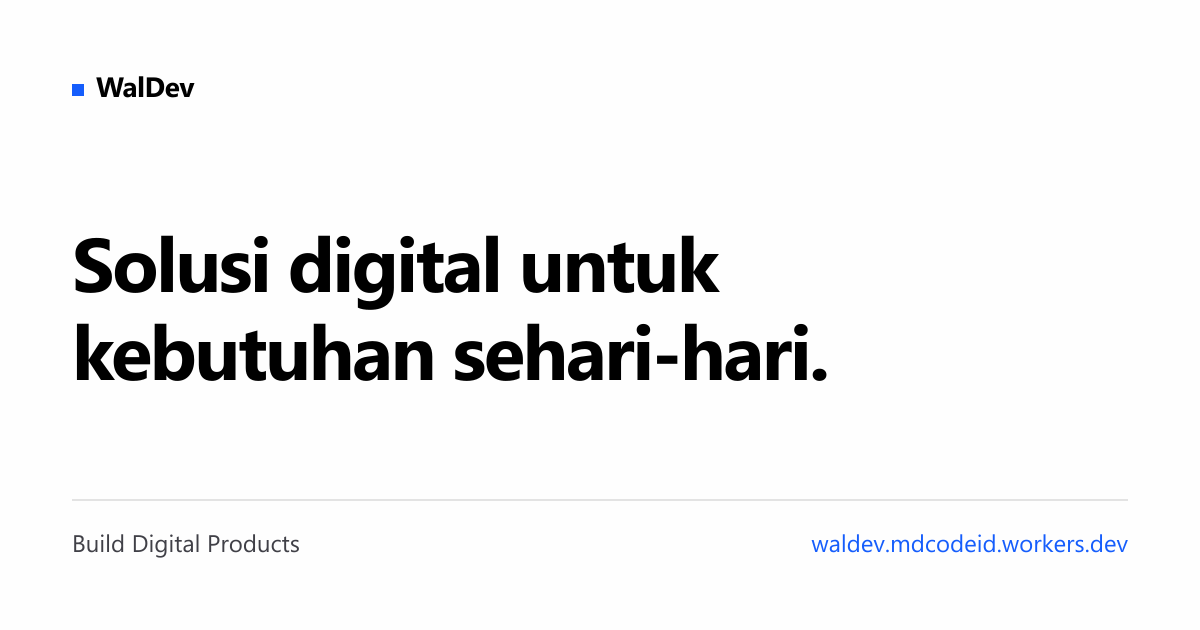
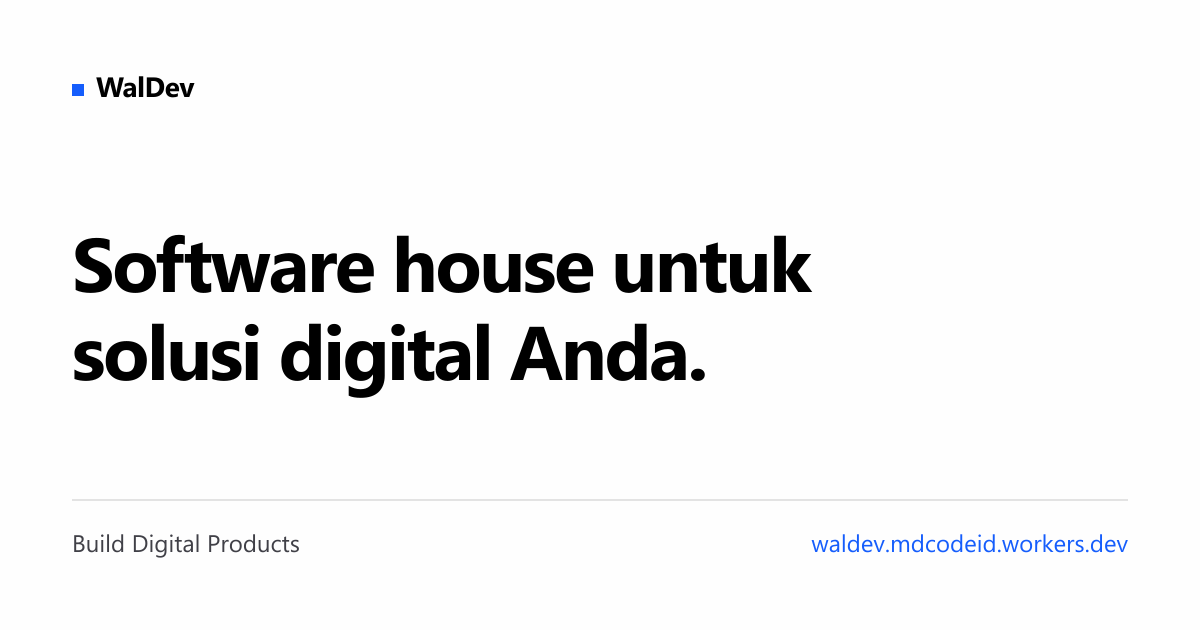
feat(copy): teks publik bernada software house mengikuti acuan Vodjo dan GoSocial
- Hero Software house untuk solusi digital Anda, dengan tombol Lihat portofolio
  dan Hubungi WalDev; sudut pandang kami dan Anda, tanpa saya.
- Menu dan bagian beranda bernama Portofolio (menu ke /apps), item disebut proyek,
  tombol Buka aplikasi menjadi Kunjungi situs; alamat /apps dan panel tetap.
- Beranda ditutup ajakan kontak lewat email; tanpa formulir, WhatsApp, angka,
  atau testimoni dari situs acuan.
- Tentang, Tulisan, 404, OG image, dan petunjuk panel mengikuti teks baru.

Changed region(s): [[0.0617, 0.3619, 0.7092, 0.6333]]

diff --git a/src/app/(public)/page.tsx b/src/app/(public)/page.tsx
@@ -2,6 +2,7 @@ import type { Metadata } from "next";
 import { ClientLogos } from "@/components/home/client-logos";
 import { Hero, type HeroShowcase } from "@/components/home/hero";
 import { ArrowLink } from "@/components/ui/arrow-link";
+import { buttonVariants } from "@/components/ui/button";
 import { SectionHeading } from "@/components/ui/section-heading";
 import { SECTION, SHELL } from "@/components/ui/shell";
 import { HOME_INTRO, HOME_LEAD } from "@/lib/constants";
@@ -30,7 +31,7 @@ function gridCols(count: number): string {
 }
 
 /**
- * Beranda (docs/09 §5.1): hero, logo klien, kartu aplikasi, lalu tulisan terbaru.
+ * Beranda (docs/09 §5.1): hero, logo klien, kartu proyek, lalu tulisan terbaru.
  * Logo klien dan tulisan hilang selama isinya kosong, jadi beranda tetap utuh walau
  * baru ada satu aplikasi.
  */
@@ -56,7 +57,7 @@ export default async function HomePage() {
         alt: heroApp
           ? `${customImage ? "Gambar" : "Tangkapan layar"} ${heroApp.name}`
           : "Gambar hero",
-        label: heroApp ? (chosenApp ? "Aplikasi unggulan" : "Aplikasi terbaru") : null,
+        label: heroApp ? (chosenApp ? "Proyek unggulan" : "Proyek terbaru") : null,
         name: heroApp?.name ?? null,
         href: heroApp ? `/apps/${heroApp.slug}` : null,
         building: heroApp?.status === "building",
@@ -83,11 +84,8 @@ export default async function HomePage() {
         </section>
       ) : null}
 
-      <section id="aplikasi" className={cn(SHELL, SECTION, "border-border scroll-mt-14 border-t")}>
-        <SectionHeading
-          title="Aplikasi"
-          description="Buka kartu aplikasi untuk melihat penjelasan, fitur, dan catatan pembuatannya."
-        />
+      <section id="portofolio" className={cn(SHELL, SECTION, "border-border scroll-mt-14 border-t")}>
+        <SectionHeading title="Portofolio" />
 
         {featured ? (
           <>
@@ -109,12 +107,12 @@ export default async function HomePage() {
             ) : null}
             {apps.length > HOME_APP_LIMIT ? (
               <p className="mt-8">
-                <ArrowLink href="/apps">Lihat semua {apps.length} aplikasi</ArrowLink>
+                <ArrowLink href="/apps">Lihat semua {apps.length} proyek</ArrowLink>
               </p>
             ) : null}
           </>
         ) : (
-          <p className="text-muted-foreground mt-10">Aplikasi pertama masih dalam pembuatan.</p>
+          <p className="text-muted-foreground mt-10">Proyek pertama masih dalam pengerjaan.</p>
         )}
       </section>
 
@@ -125,6 +123,26 @@ export default async function HomePage() {
             {articles.map((article) => (
               <ArticleCard key={article.slug} article={article} headingLevel="h3" />
             ))}
+          </div>
+        </section>
+      ) : null}
+
+      {/* Penutup seperti situs software house acuan (docs/09 §5.1), tanpa formulir dan WhatsApp.
+          Hanya tampil bila email kontak diisi, supaya tombolnya tidak mati. */}
+      {settings.contact_email ? (
+        <section id="kontak" className={cn(SHELL, SECTION, "border-border scroll-mt-14 border-t")}>
+          <SectionHeading
+            title="Punya proyek yang ingin dibicarakan?"
+            description="Ceritakan kebutuhan aplikasi web atau sistem informasi Anda lewat email ke kami."
+          />
+          <div className="mt-8 flex flex-wrap items-center gap-x-6 gap-y-3">
+            <a
+              href={`mailto:${settings.contact_email}`}
+              className={cn(buttonVariants({ size: "lg" }), "w-full sm:w-auto")}
+            >
+              Hubungi kami
+            </a>
+            <span className="text-muted-foreground text-sm break-all">{settings.contact_email}</span>
           </div>
         </section>
       ) : null}

diff --git a/src/app/(public)/apps/[slug]/page.tsx b/src/app/(public)/apps/[slug]/page.tsx
@@ -46,7 +46,7 @@ export async function generateMetadata({
 }): Promise<Metadata> {
   const { slug } = await params;
   const app = await getApp(slug);
-  if (!app) return { title: "Aplikasi tidak ditemukan" };
+  if (!app) return { title: "Proyek tidak ditemukan" };
   const seo = await getSeoMeta("app", app.id);
   const title = seo.metaTitle || app.name;
   const description = seo.metaDescription || app.tagline || undefined;
@@ -114,8 +114,8 @@ export default async function AppPage({ params }: { params: Promise<{ slug: stri
     <>
       <header className="border-border border-b">
         <div className={cn(SHELL, "pt-8 pb-14")}>
-          <ArrowLink href="/" className="text-muted-foreground hover:text-link" back>
-            Semua aplikasi
+          <ArrowLink href="/apps" className="text-muted-foreground hover:text-link" back>
+            Semua proyek
           </ArrowLink>
 
           <div className="mt-10 flex items-center gap-5">
@@ -143,7 +143,7 @@ export default async function AppPage({ params }: { params: Promise<{ slug: stri
 
           {retired ? (
             <p className="border-border bg-surface text-muted-foreground mt-8 max-w-2xl rounded-lg border px-4 py-3 leading-relaxed">
-              Aplikasi ini sudah tidak aktif
+              Proyek ini sudah tidak aktif
               {app.retiredAt ? ` sejak ${formatMonthYear(app.retiredAt)}` : ""}. Halaman ini tetap
               ada sebagai dokumentasi.
             </p>
@@ -158,7 +158,7 @@ export default async function AppPage({ params }: { params: Promise<{ slug: stri
                   rel="noopener noreferrer"
                   className={cn(buttonVariants({ size: "lg" }), "gap-2")}
                 >
-                  Buka aplikasi
+                  Kunjungi situs
                   <ExternalLink className="h-3.5 w-3.5" aria-hidden />
                 </a>
               ) : null}

diff --git a/src/app/(public)/about/page.tsx b/src/app/(public)/about/page.tsx
@@ -53,14 +53,14 @@ export default async function AboutPage() {
     bio.length > 0
       ? bio
       : [
-          `${brand} membangun dan merawat aplikasi web. Semua aplikasinya tercatat di sini, termasuk yang masih dikerjakan dan yang sudah tidak aktif.`,
+          `${brand} adalah software house yang membangun aplikasi web dan sistem informasi. Semua proyek kami tercatat di portofolio, termasuk yang masih dikerjakan dan yang sudah tidak aktif.`,
         ];
 
   const lokasi = [settings.location_city, settings.location_region].filter(Boolean).join(", ");
   const facts = [
     lokasi ? { label: "Berbasis di", value: lokasi } : null,
     settings.founded_year ? { label: `${brand} sejak`, value: settings.founded_year } : null,
-    { label: "Jumlah aplikasi", value: String(apps.length) },
+    { label: "Jumlah proyek", value: String(apps.length) },
   ].filter((fact) => fact !== null);
 
   const socials = [
@@ -138,7 +138,7 @@ export default async function AboutPage() {
           <>
             <Eyebrow>Kontak</Eyebrow>
             <h2 className="display mt-3 max-w-2xl text-2xl text-balance sm:text-[1.75rem]">
-              Ada pertanyaan tentang salah satu aplikasi?
+              Ada pertanyaan tentang proyek kami?
             </h2>
             {settings.contact_email ? (
               <p className="text-muted-foreground mt-3 max-w-2xl leading-relaxed">
@@ -175,7 +175,7 @@ export default async function AboutPage() {
           </>
         ) : null}
         <p className={settings.contact_email || socials.length > 0 ? "mt-10" : undefined}>
-          <ArrowLink href="/">Lihat semua aplikasi</ArrowLink>
+          <ArrowLink href="/apps">Lihat portofolio</ArrowLink>
         </p>
       </section>
 

diff --git a/src/app/(public)/apps/page.tsx b/src/app/(public)/apps/page.tsx
@@ -10,14 +10,14 @@ import { AppStatusFilter } from "@/modules/apps/components/app-status-filter";
 export const dynamic = "force-dynamic";
 
 export const metadata: Metadata = {
-  title: "Semua aplikasi",
-  description: "Daftar lengkap aplikasi yang sedang dibangun, sudah rilis, atau sudah tidak aktif.",
+  title: "Portofolio",
+  description: "Semua proyek yang kami kerjakan, termasuk yang masih dibangun dan yang sudah tidak aktif.",
   alternates: { canonical: "/apps" },
 };
 
 /**
- * Halaman Semua aplikasi (docs/09 §5.1). Beranda memuat paling banyak tujuh kartu dan
- * menautkan ke sini saat aplikasinya lebih banyak.
+ * Halaman Semua proyek (docs/09 §5.1). Beranda memuat paling banyak tujuh kartu dan
+ * menautkan ke sini saat proyeknya lebih banyak.
  */
 export default async function AppsPage() {
   const apps = await listPublishedApps();
@@ -30,14 +30,14 @@ export default async function AppsPage() {
   return (
     <>
       <PageHeader
-        eyebrow="Aplikasi"
-        title="Semua aplikasi"
-        description="Buka kartu untuk melihat penjelasan, fitur, dan catatan pembuatan setiap aplikasi."
+        eyebrow="Portofolio"
+        title="Semua proyek"
+        description="Proyek yang sedang dan pernah kami kerjakan. Buka kartu untuk melihat penjelasan, fitur, dan tangkapan layar setiap proyek."
       />
 
       <section className={cn(SHELL, SECTION)}>
         {apps.length === 0 ? (
-          <p className="text-muted-foreground">Aplikasi pertama masih dalam pembuatan.</p>
+          <p className="text-muted-foreground">Proyek pertama masih dalam pengerjaan.</p>
         ) : apps.length === 1 && onlyApp ? (
           <AppCard app={onlyApp} wide />
         ) : (

diff --git a/src/components/home/hero.tsx b/src/components/home/hero.tsx
@@ -6,13 +6,13 @@ import { cn } from "@/lib/utils";
 import { HeroRakit } from "./hero-rakit";
 
 /**
- * Gambar hero: dari Pengaturan › Hero beranda, atau tangkapan layar aplikasi terbaru
+ * Gambar hero: dari Pengaturan › Hero beranda, atau tangkapan layar proyek terbaru
  * yang punya gambar dan masih aktif.
  */
 export interface HeroShowcase {
   imageUrl: string;
   alt: string;
-  /** "Aplikasi terbaru" atau "Aplikasi unggulan"; null bila tidak ada aplikasi terkait. */
+  /** "Proyek terbaru" atau "Proyek unggulan"; null bila tidak ada proyek terkait. */
   label: string | null;
   name: string | null;
   /** Halaman aplikasi yang dituju saat gambar diklik. */
@@ -45,12 +45,12 @@ export function Hero({
 
       <div className="mt-7 flex flex-wrap items-center gap-x-5 gap-y-3">
         <StaticLink
-          href="#aplikasi"
+          href="#portofolio"
           className={cn(buttonVariants({ size: "xl" }), "w-full sm:w-auto")}
         >
-          Lihat aplikasi
+          Lihat portofolio
         </StaticLink>
-        {email ? <ArrowLink href={`mailto:${email}`}>Hubungi lewat email</ArrowLink> : null}
+        {email ? <ArrowLink href={`mailto:${email}`}>Hubungi WalDev</ArrowLink> : null}
       </div>
 
       {showcase ? <Showcase item={showcase} /> : null}
@@ -70,7 +70,7 @@ function Showcase({ item }: { item: HeroShowcase }) {
       {item.href ? (
         <StaticLink
           href={item.href}
-          aria-label={item.name ? `Lihat halaman ${item.name}` : "Lihat halaman aplikasi"}
+          aria-label={item.name ? `Lihat halaman ${item.name}` : "Lihat halaman proyek"}
           className="block"
         >
           {visual}

diff --git a/src/lib/constants.ts b/src/lib/constants.ts
@@ -3,20 +3,21 @@ export const SITE = {
   name: "WalDev",
   tagline: "Build Digital Products",
   description:
-    "Portofolio aplikasi web WalDev, lengkap dengan fitur dan catatan pembuatan tiap aplikasi.",
+    "WalDev, software house yang membangun aplikasi web dan sistem informasi. Lihat portofolio proyek kami beserta tautan ke situs yang masih tayang.",
   // Nilai sebenarnya di-set lewat NEXT_PUBLIC_SITE_URL pada wrangler.jsonc.
   url: process.env.NEXT_PUBLIC_SITE_URL ?? "https://waldev.mdcodeid.workers.dev",
 } as const;
 
 /**
  * Judul hero beranda selama Pengaturan › Hero beranda › Judul hero masih kosong.
- * Berpusat pada manfaat untuk pengunjung dan tidak menyebut siapa pembuatnya.
+ * Nada software house mengikuti acuan Vodjo dan GoSocial: sudut pandang "kami" dan "Anda",
+ * dan pengunjung datang untuk melihat portofolio, bukan mencoba aplikasinya.
  */
-export const HOME_INTRO = "Solusi digital untuk kebutuhan sehari-hari.";
+export const HOME_INTRO = "Software house untuk solusi digital Anda.";
 
 /** Kalimat pengantar di hero beranda, di bawah judul. */
 export const HOME_LEAD =
-  "Setiap aplikasi dibuat untuk menyelesaikan satu kebutuhan, lengkap dengan penjelasan, fitur, dan cara memakainya.";
+  "WalDev membangun aplikasi web dan sistem informasi. Setiap proyek di portofolio punya halaman sendiri, dan yang masih tayang bisa langsung dikunjungi.";
 
 /**
  * Basis rute admin (rahasia, tidak tertaut di publik).

diff --git a/src/app/(public)/articles/page.tsx b/src/app/(public)/articles/page.tsx
@@ -18,7 +18,7 @@ export const dynamic = "force-dynamic";
 export const metadata: Metadata = {
   title: "Tulisan",
   description:
-    "Tulisan seputar pembuatan aplikasi WalDev, misalnya alasan di balik sebuah keputusan teknis atau kendala yang muncul saat membangun.",
+    "Tulisan seputar proyek yang kami kerjakan, misalnya alasan di balik sebuah keputusan teknis atau kendala yang muncul saat membangun.",
   alternates: { canonical: "/articles" },
 };
 
@@ -30,7 +30,7 @@ export default async function ArticlesPage() {
     <>
       <PageHeader
         eyebrow="Tulisan"
-        title="Tulisan seputar pembuatan aplikasi."
+        title="Catatan dari proyek yang kami kerjakan."
         description="Bahasan yang terlalu panjang untuk catatan singkat, misalnya alasan memilih sebuah pendekatan atau kendala yang muncul saat membangun."
       />
 
@@ -38,7 +38,7 @@ export default async function ArticlesPage() {
         <section className={cn(SHELL, SECTION)}>
           <p className="text-muted-foreground">Belum ada tulisan.</p>
           <p className="mt-4">
-            <ArrowLink href="/">Lihat daftar aplikasi</ArrowLink>
+            <ArrowLink href="/apps">Lihat portofolio</ArrowLink>
           </p>
         </section>
       ) : (

diff --git a/src/components/layout/site-header.tsx b/src/components/layout/site-header.tsx
@@ -15,7 +15,7 @@ export interface HeaderNavItem {
 
 /**
  * Kepala situs: merek, navigasi teks, dan pengalih tema. Tidak ada tombol
- * ajakan: situs ini arsip, bukan halaman penjualan.
+ * ajakan: situs ini portofolio, bukan halaman penjualan.
  *
  * Latarnya tidak berubah mengikuti gulir — header selalu tampil sebagai bidang
  * kertas dengan satu garis tipis di bawahnya.
@@ -26,9 +26,9 @@ export function SiteHeader({ brand, nav }: { brand: string; nav: HeaderNavItem[]
   const panelRef = useRef<HTMLDivElement>(null);
   const triggerRef = useRef<HTMLButtonElement>(null);
 
-  /* Beranda adalah daftar aplikasi, jadi halaman aplikasi ikut menandai tautan beranda. */
+  /* Tautan ikut aktif di halaman di bawahnya: "Portofolio" (/apps) juga menandai halaman setiap proyek. */
   const isActive = (url: string) =>
-    url === "/" ? pathname === "/" || pathname.startsWith("/apps/") : pathname.startsWith(url);
+    url === "/" ? pathname === "/" : pathname === url || pathname.startsWith(`${url}/`);
 
   /* Tutup menu setiap kali pindah halaman. Disesuaikan saat render, bukan lewat
      useEffect: memanggil setState di dalam efek memicu render berantai, dan

diff --git a/src/app/(public)/privacy-policy/page.tsx b/src/app/(public)/privacy-policy/page.tsx
@@ -26,7 +26,7 @@ export default async function PrivacyPolicyPage() {
       <section className="mx-auto max-w-3xl px-6 py-16 sm:py-20">
         <div className="prose max-w-none">
           <p>
-            {brand} adalah portofolio aplikasi web. Halaman ini menjelaskan data apa saja yang
+            {brand} adalah portofolio proyek aplikasi web. Halaman ini menjelaskan data apa saja yang
             terlibat saat Anda membuka situs ini.
           </p>
 
@@ -51,7 +51,7 @@ export default async function PrivacyPolicyPage() {
 
           <h2>Video YouTube</h2>
           <p>
-            Beberapa halaman aplikasi menyertakan video YouTube. Sebelum diklik, hanya gambar
+            Beberapa halaman proyek menyertakan video YouTube. Sebelum diklik, hanya gambar
             pratinjaunya yang dimuat dari server YouTube. Pemutarnya baru dimuat setelah Anda
             mengklik video, dan sejak saat itu berlaku kebijakan privasi YouTube.
           </p>

diff --git a/src/modules/apps/components/app-status-filter.tsx b/src/modules/apps/components/app-status-filter.tsx
@@ -10,7 +10,7 @@ type Filter = "all" | AppStatus;
 const STATUS_ORDER: AppStatus[] = ["building", "released", "retired"];
 
 /**
- * Tombol saring status di halaman Semua aplikasi (docs/09 §5.1). Kartu dirender di server;
+ * Tombol saring status di halaman Semua proyek (docs/09 §5.1). Kartu dirender di server;
  * komponen ini hanya mengganti `data-filter`, dan globals.css (`.app-directory`)
  * menyembunyikan kartu yang statusnya tidak cocok. Tombol tanpa kartu tidak tampil.
  */
@@ -35,7 +35,7 @@ export function AppStatusFilter({
 
   return (
     <div className="app-directory" data-filter={filter}>
-      <div role="group" aria-label="Saring aplikasi berdasarkan status" className="flex flex-wrap gap-2">
+      <div role="group" aria-label="Saring proyek berdasarkan status" className="flex flex-wrap gap-2">
         {options.map((option) => (
           <button
             key={option.key}

diff --git a/src/app/(public)/layout.tsx b/src/app/(public)/layout.tsx
@@ -17,13 +17,13 @@ const SOCIAL_ICONS: Record<string, ComponentType<SVGProps<SVGSVGElement>>> = {
 
 export const dynamic = "force-dynamic";
 
-/* Menu bawaan arsip aplikasi (docs/09 §4.1). Beranda sudah berupa daftar
-   aplikasi, jadi "Aplikasi" menunjuk ke sana. Menu Artikel sengaja tidak ada:
+/* Menu bawaan portofolio (docs/09 §4.1). "Portofolio" menunjuk ke halaman Semua proyek,
+   karena beranda hanya memuat tujuh kartu. Menu Artikel sengaja tidak ada:
    pemilik menambahkannya lewat Panel › Navigasi saat tulisannya dirasa cukup.
    Keduanya hanya fallback — begitu menu disusun lewat modul Navigasi, tabel
    `navigation_items` yang menang. */
 const DEFAULT_HEADER = [
-  { label: "Aplikasi", url: "/" },
+  { label: "Portofolio", url: "/apps" },
   { label: "Tentang", url: "/about" },
 ];
 

diff --git a/src/app/not-found.tsx b/src/app/not-found.tsx
@@ -12,8 +12,8 @@ export default function NotFound() {
         Tautannya mungkin sudah berubah, atau halamannya sudah tidak tersedia.
       </p>
       <div className="mt-8">
-        <StaticLink href="/" className={cn(buttonVariants({ size: "lg" }), "w-full sm:w-auto")}>
-          Lihat semua aplikasi
+        <StaticLink href="/apps" className={cn(buttonVariants({ size: "lg" }), "w-full sm:w-auto")}>
+          Lihat portofolio
         </StaticLink>
       </div>
     </main>
